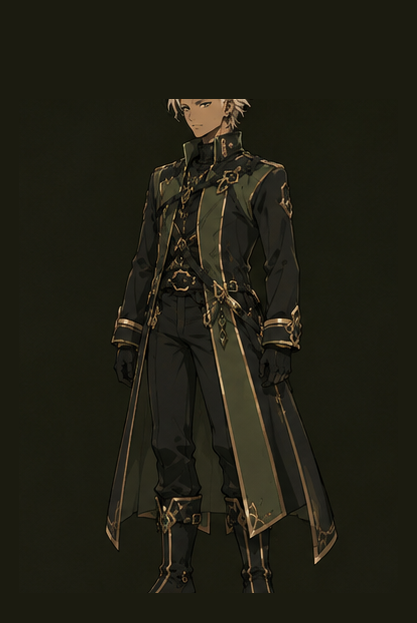
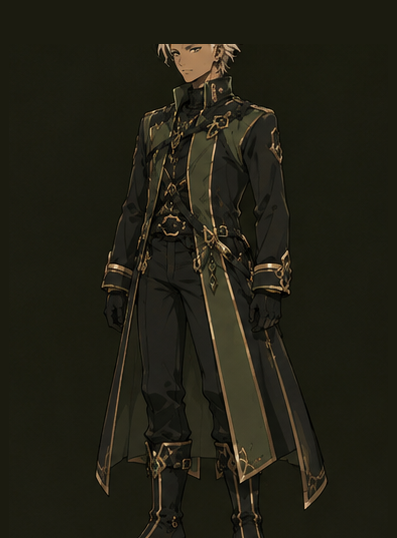
fix: 원화 삼면도 머리 위 여백 우선 + 캐릭터 스케일 통일(다리는 잘려도 허용)
object-contain 대신 상단 고정 object-cover(50% 2%)로 전환 — 머리 위 여백은 항상
확보되고, 카드 폭에 맞춰 6종 전부 비슷한 스케일로 보이도록 함. 세로 공간이 부족하면
발/다리 쪽부터 잘리는 쪽을 택함(요청 반영). 더 이상 레터박스가 없어 카드별 배경색
매칭(TURNAROUND_BG)은 불필요해져 제거.

diff --git a/web/components/game/create-screen.tsx b/web/components/game/create-screen.tsx
@@ -12,17 +12,6 @@ import type { Element, Gender } from '@/lib/types'
 // 반투명 글로우/그라디언트에서만 실제 16진값이 필요해 여기서 따로 미러링해 둔다.
 const ELEMENT_HEX: Record<Element, string> = { fire: '#e2542a', ice: '#4fb8e6', earth: '#a97c3f' }
 
-// 원화 삼면도 크롭은 레퍼런스 시트 고유의 배경색(베이지/암색)을 그대로 패딩에 살렸다 —
-// 카드 자체 배경도 같은 색으로 맞춰야 object-contain의 여백에서 이음매가 안 보인다.
-const TURNAROUND_BG: Record<string, string> = {
-  'fire-male': '#e0d4ca',
-  'fire-female': '#dbd0c5',
-  'ice-male': '#eee0d5',
-  'ice-female': '#edded5',
-  'earth-male': '#1b1b10',
-  'earth-female': '#1b1c11',
-}
-
 // 인게임 캐릭터 발밑 마법진 — iso-world.tsx 게이트 포탈과 같은 시각 언어(룬 링+회전 다이아) 재사용
 function CreateMagicCircle({ color }: { color: string }) {
   const R = 92
@@ -66,14 +55,14 @@ export function CreateScreen() {
 
         <h1 className="relative z-[2] pt-5 text-center font-display text-2xl text-gold-soft text-shadow-ink">캐릭터 생성</h1>
 
-        {/* 좌측: 원화 삼면도 장식 */}
+        {/* 좌측: 원화 삼면도 장식 — 머리 위 여백은 항상 보이도록 위쪽 기준 cover(다리 쪽은 잘려도 무방) */}
         <div className="absolute top-5 left-5 z-[2] hidden w-44 sm:block md:w-52 lg:w-60">
-          <div className="create-portrait-frame aspect-[4/5]" style={{ background: TURNAROUND_BG[`${element}-${gender}`] }}>
+          <div className="create-portrait-frame aspect-[4/5]">
             <Image
               src={`/images/portraits/turnaround-${element}-${gender}.png`}
               alt={`${meta.name} 원화 삼면도`}
               fill
-              className="object-contain"
+              className="object-cover object-[50%_2%]"
             />
             <div className="create-portrait-vignette" />
           </div>
